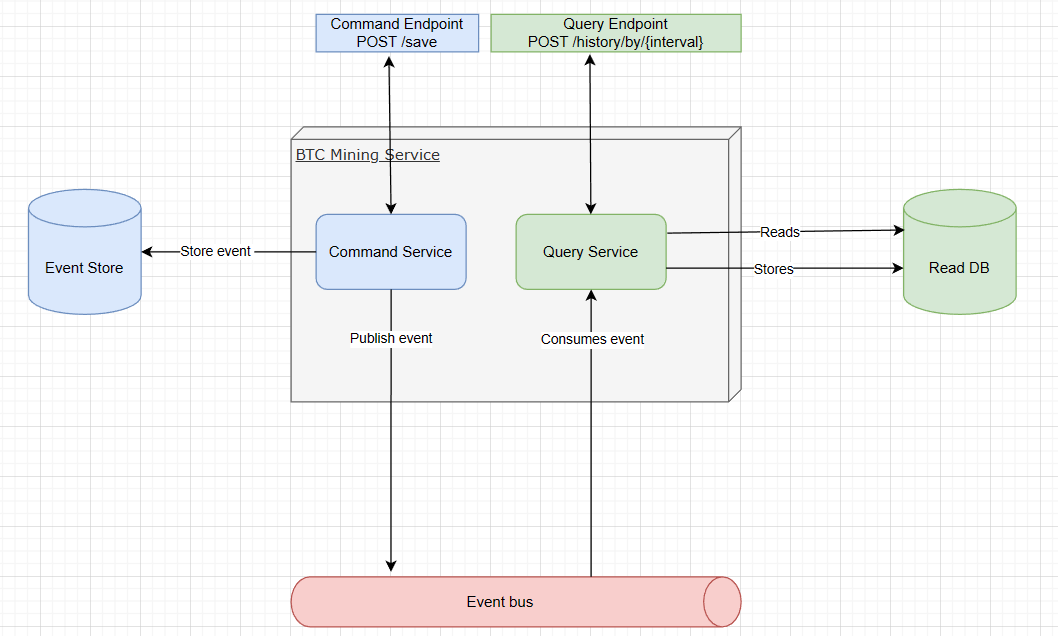
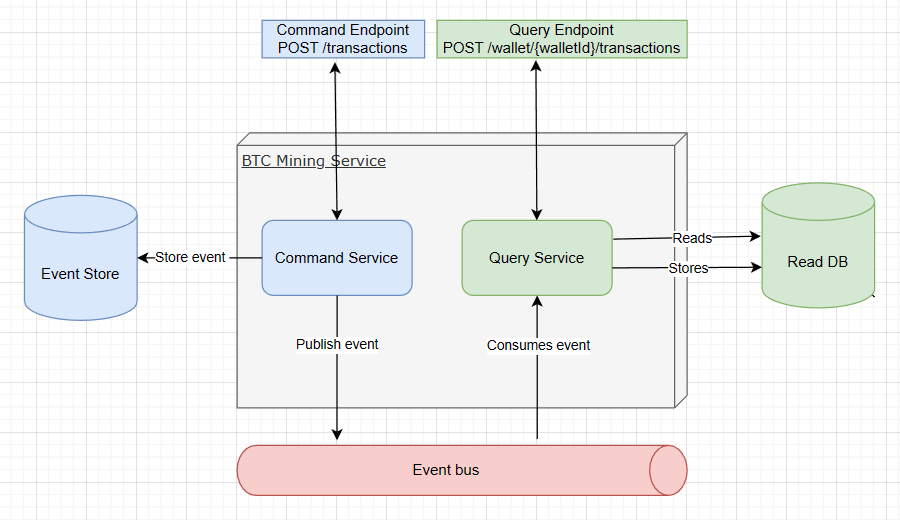
updated README.md with instructions

Changed region(s): [[0.0, 0.0, 0.9956, 1.0]]

diff --git a/README.md b/README.md
@@ -1,3 +1,45 @@
 # anymind-test-project
 
+## High Level Architectural diagram
 ![High level architecture](diagrams/BTC Mining system high level architecture.png)
+
+## Assumptions
+- Since Wallet and time zones were mentioned, but from request model it was not clear that if an wallet entity should exists, I didn't keep Wallet as the Aggregate, instead I kept the Transaction as the aggregate
+- But I kept walletId just to explain that I had this in mind
+
+## Run the application
+From the root directory where the docker-compose.yml file exists, run ```docker-compose up```
+
+## Connect to the DB from your DB client
+Once the database and other services are up and running by docker compose, use the following parameters to connect to the DB server via your DB client.
+
+The Password is: ```secret```
+
+![DB client connection parameters](img.png)
+
+## Create View table in case it is not automatically created
+
+Run the following SQL script to create the view table
+```
+CREATE VIEW hourly_wallet_balance_history AS
+SELECT row_number() OVER () as id, date_trunc('hour', datetime) as datetime_hour, wallet_id, sum(amount) as balance
+FROM transaction
+GROUP BY date_trunc('hour', datetime), wallet_id;
+```
+
+## Axon Server Dashboard
+
+Go to http://localhost:8024/#query
+
+## Test the Application
+
+Postman Collection has been attached in the directory ```./postman-collection```
+
+#### Add BTC
+
+![Add BTC Request-response in Postman](img_1.png)
+
+
+#### Find Sum History between dates (by hour)
+
+![Find Sum History between dates (by hour) Request-response in Postman](img_2.png)
